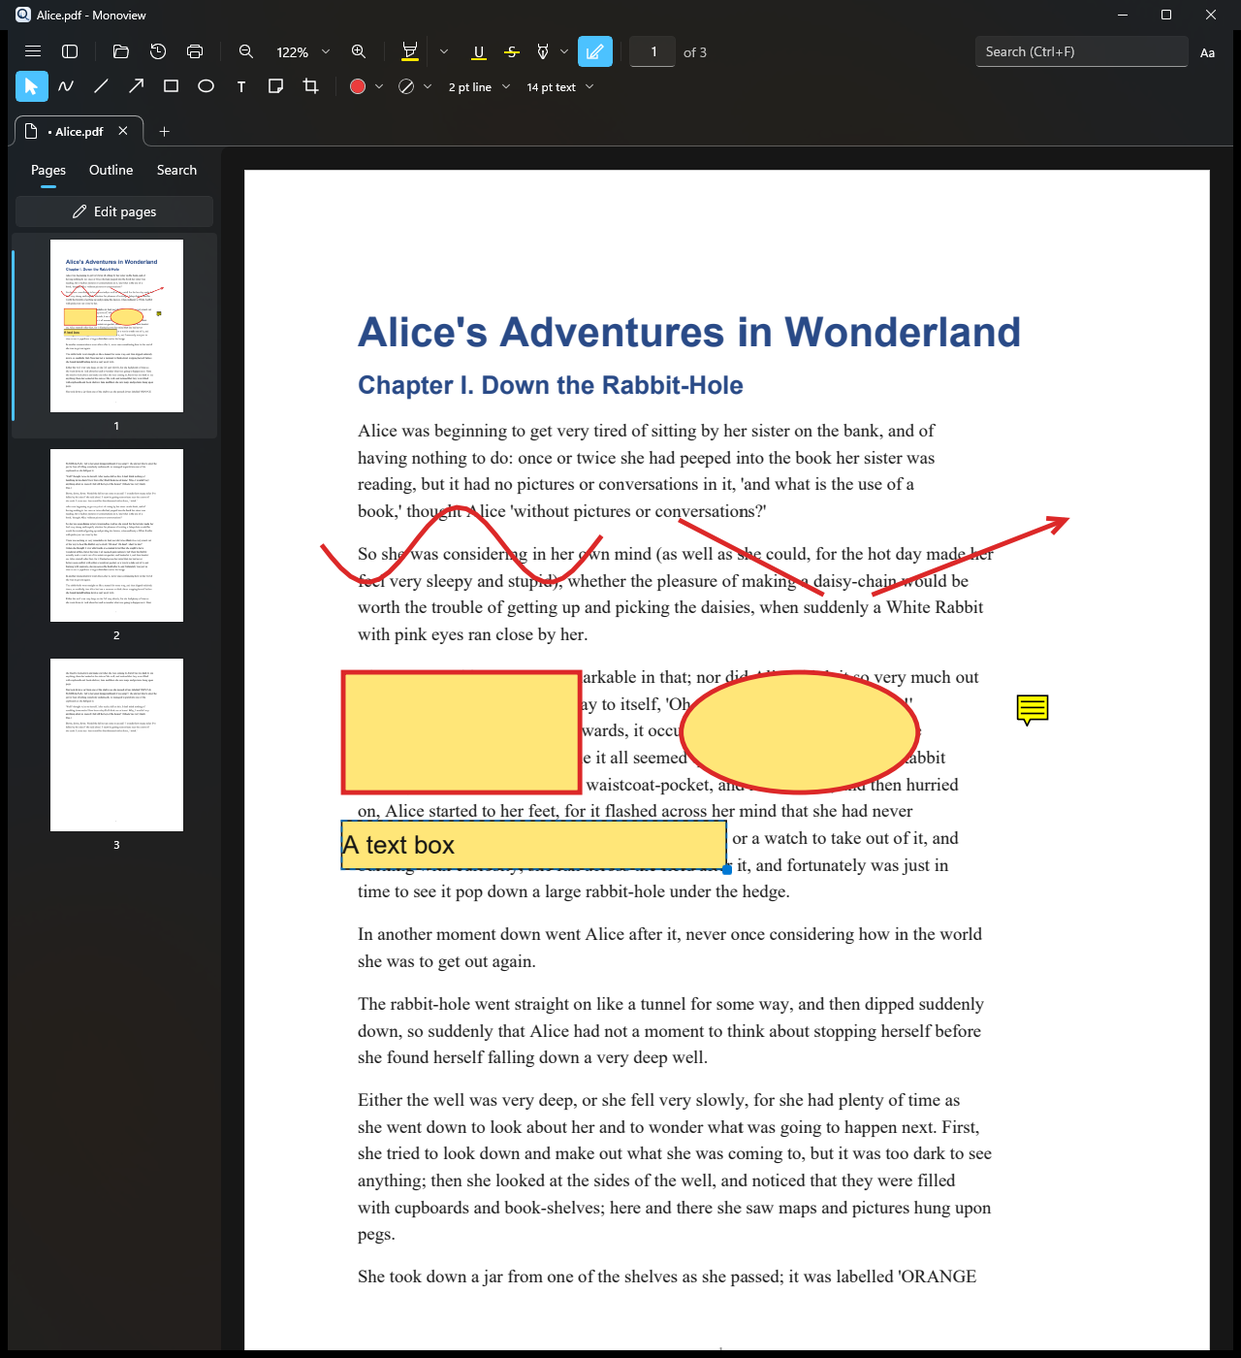
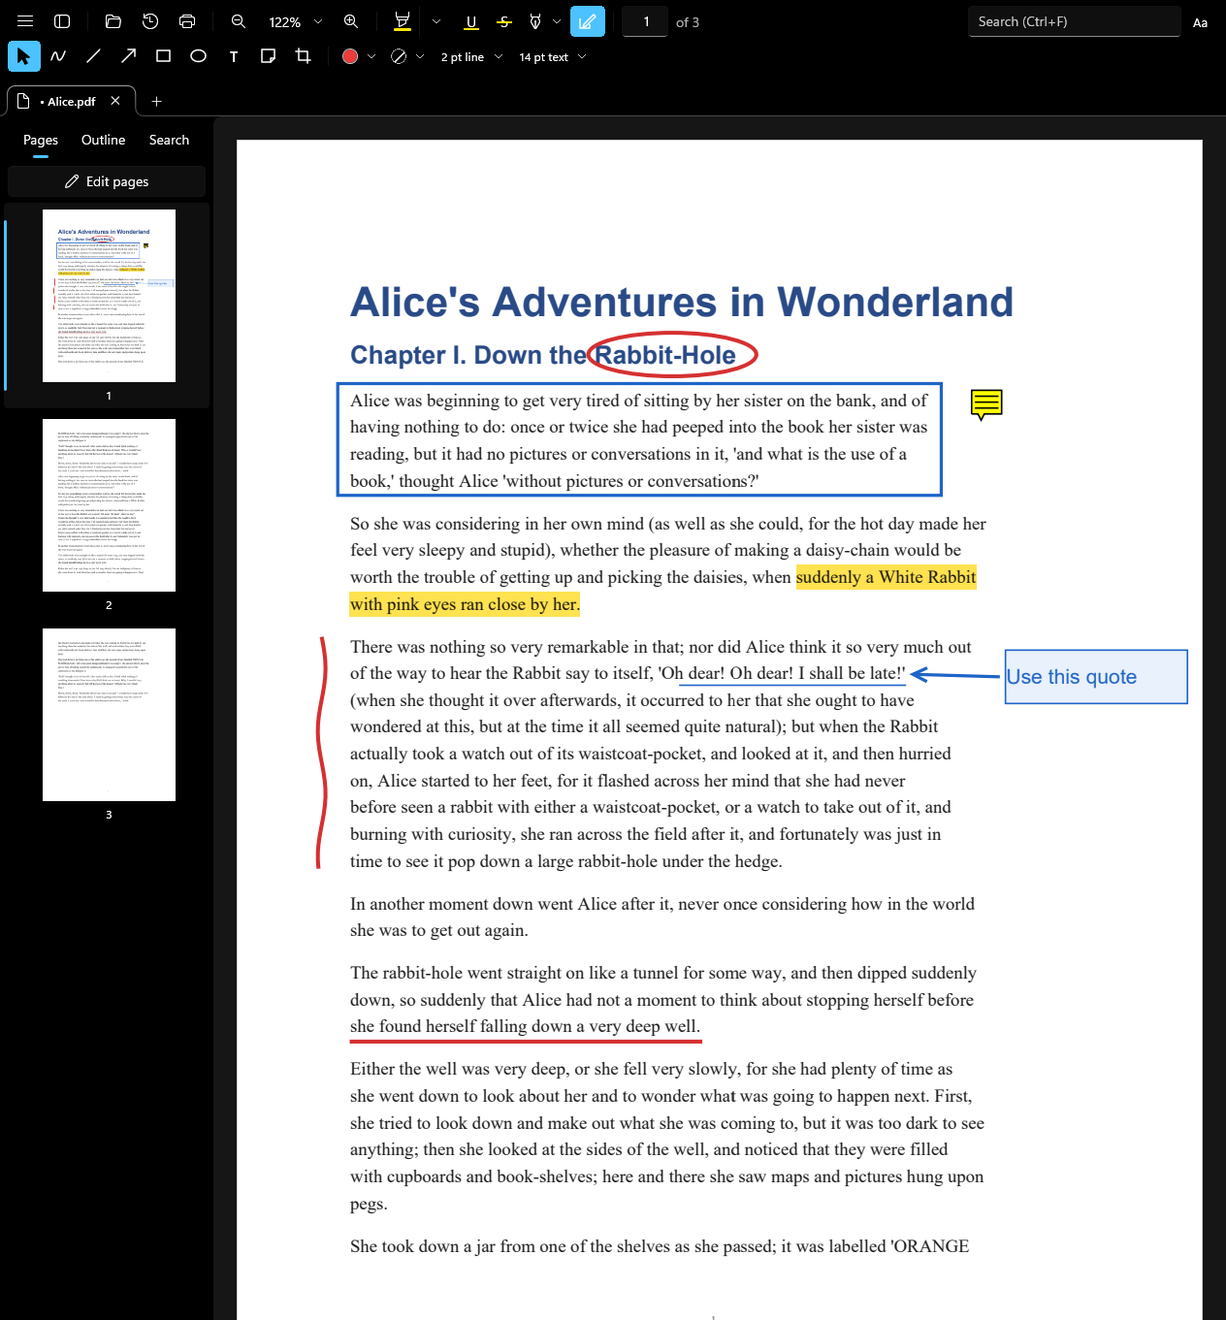
Add a GitHub Pages site in docs for monoview.app, positioned as Preview for Windows; Crop the black window edges from the screenshots; Lay out the shapes test demo as review notes and retake the markup screenshot.

diff --git a/docs/index.html b/docs/index.html
@@ -1,0 +1,228 @@
+<!doctype html>
+<html lang="en">
+<head>
+<meta charset="utf-8">
+<meta name="viewport" content="width=device-width, initial-scale=1">
+<title>Monoview: Preview for Windows</title>
+<meta name="description" content="Monoview is Preview for Windows: a fast, clean viewer for PDFs and pictures. Read, mark up, sign and fill in PDFs. Free and open source.">
+<link rel="canonical" href="./">
+<meta property="og:type" content="website">
+<meta property="og:title" content="Monoview: Preview for Windows">
+<meta property="og:description" content="A fast, clean viewer for PDFs and pictures, modeled on macOS Preview.">
+<meta property="og:image" content="https://monoview.app/images/reading-light.png">
+<meta property="og:url" content="https://monoview.app/">
+<link rel="icon" href="images/logo.svg" type="image/svg+xml">
+<link rel="preconnect" href="https://fonts.googleapis.com">
+<link rel="preconnect" href="https://fonts.gstatic.com" crossorigin>
+<link rel="stylesheet" href="https://fonts.googleapis.com/css2?family=Bricolage+Grotesque:opsz,wght@12..96,600;12..96,700;12..96,800&amp;family=Figtree:wght@400;500;600&amp;display=swap">
+<style>
+body{margin:0}
+a{color:#1B4478}a:hover{color:#0B2545}
+.btn-primary:hover{filter:brightness(1.12)}
+.btn-ghost:hover{border-color:#0B2545 !important}
+.btn-light:hover{background:#ffffff !important}
+.nav-link{color:#334155;text-decoration:none}
+.nav-link:hover{color:#0B2545;text-decoration:underline}
+.foot-link{color:#B8C7DC}
+.foot-link:hover{color:#ffffff}
+html{scroll-behavior:smooth}
+</style>
+</head>
+<body>
+<div style="font-family: 'Figtree', 'Segoe UI', sans-serif; color: #0B2545; background: #F4F7FB; min-height: 100vh; font-size: 17px; line-height: 1.6">
+
+  <!-- Nav -->
+  <div style="max-width: 1160px; margin: 0 auto; padding: 20px 24px; display: flex; align-items: center; justify-content: space-between; gap: 16px; flex-wrap: wrap">
+    <a href="./" style="display: flex; align-items: center; gap: 10px; text-decoration: none; color: #0B2545">
+      <img src="images/logo.svg" alt="" style="width: 36px; height: 36px">
+      <span style="font-family: 'Bricolage Grotesque', sans-serif; font-weight: 700; font-size: 21px; letter-spacing: -0.01em">Monoview</span>
+    </a>
+    <div style="display: flex; align-items: center; gap: 24px; flex-wrap: wrap">
+      <a class="nav-link" href="#features" style="font-weight: 500">Features</a>
+      <a class="nav-link" href="#screenshots" style="font-weight: 500">Screenshots</a>
+      <a class="nav-link" href="https://github.com/mfmyip/Monoview" style="font-weight: 500">GitHub</a>
+      <a class="btn-primary" href="https://github.com/mfmyip/Monoview/releases/latest" style="background: #1B4478; color: #ffffff; text-decoration: none; font-weight: 600; font-size: 15px; padding: 10px 18px; border-radius: 10px; min-height: 44px; box-sizing: border-box; display: inline-flex; align-items: center">Download</a>
+    </div>
+  </div>
+
+  <!-- Hero -->
+  <div style="max-width: 1160px; margin: 0 auto; padding: 72px 24px 48px; text-align: center; display: flex; flex-direction: column; align-items: center; gap: 22px">
+    <div style="display: inline-flex; align-items: center; gap: 8px; background: #ffffff; border: 1px solid #D5DEEA; border-radius: 999px; padding: 6px 14px; font-size: 14px; font-weight: 500; color: #334155">
+      <span style="width: 8px; height: 8px; border-radius: 50%; background: #2E8B57"></span>
+      Version 0.1.1 for Windows 10 and 11
+    </div>
+    <h1 style="margin: 0; font-family: 'Bricolage Grotesque', sans-serif; font-weight: 800; font-size: clamp(2.6rem, 6vw, 4.6rem); line-height: 1.02; letter-spacing: -0.035em; max-width: 880px">Preview for Windows.</h1>
+    <p style="margin: 0; font-size: clamp(1.05rem, 2vw, 1.3rem); color: #3D4B66; max-width: 660px">Monoview is a fast, clean viewer for PDFs and pictures, modeled on macOS Preview. Open a file, read it, mark it up, sign it or fill it in, and get on with your day.</p>
+    <div style="display: flex; gap: 12px; flex-wrap: wrap; justify-content: center; margin-top: 6px">
+      <a class="btn-primary" href="https://github.com/mfmyip/Monoview/releases/latest" style="background: #1B4478; color: #ffffff; text-decoration: none; font-weight: 600; font-size: 17px; padding: 14px 26px; border-radius: 12px; min-height: 52px; box-sizing: border-box; display: inline-flex; align-items: center; gap: 10px">
+        <svg aria-hidden="true" width="18" height="18" viewBox="0 0 24 24" fill="none" stroke="currentColor" stroke-width="2" stroke-linecap="round" stroke-linejoin="round"><path d="M12 3v12"></path><path d="M7 10l5 5 5-5"></path><path d="M5 21h14"></path></svg>
+        Download for Windows
+      </a>
+      <a class="btn-ghost" href="https://github.com/mfmyip/Monoview" style="background: #ffffff; color: #0B2545; text-decoration: none; font-weight: 600; font-size: 17px; padding: 14px 26px; border-radius: 12px; border: 1px solid #C9D4E3; min-height: 52px; box-sizing: border-box; display: inline-flex; align-items: center">View source</a>
+    </div>
+    <p style="margin: 0; font-size: 14px; color: #4A5873">Free and open source under the MIT License. No account, no ads, no telemetry.</p>
+  </div>
+
+  <!-- Hero shot -->
+  <div style="max-width: 1160px; margin: 0 auto; padding: 0 24px 96px">
+    <img src="images/reading-light.png" alt="Monoview showing a book chapter with the page sidebar open" style="display: block; width: 100%; max-width: 980px; height: auto; margin: 0 auto; border-radius: 12px; border: 1px solid #D5DEEA; box-shadow: 0 30px 80px rgba(11, 37, 69, 0.16)">
+  </div>
+
+  <!-- Features -->
+  <div id="features" style="background: #ffffff; border-top: 1px solid #E2E8F1; border-bottom: 1px solid #E2E8F1">
+    <div style="max-width: 1160px; margin: 0 auto; padding: 96px 24px; display: flex; flex-direction: column; gap: 48px">
+      <div style="display: flex; flex-direction: column; gap: 12px; max-width: 640px">
+        <div style="font-size: 14px; font-weight: 600; letter-spacing: 0.08em; text-transform: uppercase; color: #1B4478">Features</div>
+        <h2 style="margin: 0; font-family: 'Bricolage Grotesque', sans-serif; font-weight: 700; font-size: clamp(2rem, 4vw, 2.8rem); line-height: 1.1; letter-spacing: -0.025em">Everything you open a file to do.</h2>
+        <p style="margin: 0; color: #3D4B66">PDFs, PNGs and JPGs open in the same window. Built on PDFium, the engine inside Chrome. Your edits save as standard PDF annotations, so Acrobat, Edge and Preview show them too.</p>
+      </div>
+      <div style="display: grid; grid-template-columns: repeat(auto-fit, minmax(300px, 1fr)); gap: 20px">
+
+        <div style="background: #F4F7FB; border-radius: 16px; padding: 28px; display: flex; flex-direction: column; gap: 10px">
+          <div style="width: 44px; height: 44px; border-radius: 12px; background: #DCE7F5; color: #1B4478; display: flex; align-items: center; justify-content: center">
+            <svg aria-hidden="true" width="22" height="22" viewBox="0 0 24 24" fill="none" stroke="currentColor" stroke-width="2" stroke-linecap="round" stroke-linejoin="round"><path d="M2 4h7a3 3 0 0 1 3 3v13a2 2 0 0 0-2-2H2z"></path><path d="M22 4h-7a3 3 0 0 0-3 3v13a2 2 0 0 1 2-2h8z"></path></svg>
+          </div>
+          <h3 style="margin: 0; font-size: 19px; font-weight: 600">Fast reading</h3>
+          <p style="margin: 0; color: #3D4B66">Only the pages you see are drawn, so big files stay smooth. Zoom around the pointer, two-page view, outline, thumbnails and search.</p>
+        </div>
+
+        <div style="background: #F4F7FB; border-radius: 16px; padding: 28px; display: flex; flex-direction: column; gap: 10px">
+          <div style="width: 44px; height: 44px; border-radius: 12px; background: #DCE7F5; color: #1B4478; display: flex; align-items: center; justify-content: center">
+            <svg aria-hidden="true" width="22" height="22" viewBox="0 0 24 24" fill="none" stroke="currentColor" stroke-width="2" stroke-linecap="round" stroke-linejoin="round"><path d="M12 20h9"></path><path d="M16.5 3.5a2.1 2.1 0 0 1 3 3L7 19l-4 1 1-4z"></path></svg>
+          </div>
+          <h3 style="margin: 0; font-size: 19px; font-weight: 600">Markup and signatures</h3>
+          <p style="margin: 0; color: #3D4B66">Highlight, draw, add shapes, text boxes and sticky notes. Draw, type or photograph your signature and place it in one click.</p>
+        </div>
+
+        <div style="background: #F4F7FB; border-radius: 16px; padding: 28px; display: flex; flex-direction: column; gap: 10px">
+          <div style="width: 44px; height: 44px; border-radius: 12px; background: #DCE7F5; color: #1B4478; display: flex; align-items: center; justify-content: center">
+            <svg aria-hidden="true" width="22" height="22" viewBox="0 0 24 24" fill="none" stroke="currentColor" stroke-width="2" stroke-linecap="round" stroke-linejoin="round"><rect x="3" y="3" width="18" height="18" rx="2"></rect><circle cx="8.5" cy="8.5" r="1.5"></circle><path d="M21 15l-5-5L5 21"></path></svg>
+          </div>
+          <h3 style="margin: 0; font-size: 19px; font-weight: 600">Pictures and live text</h3>
+          <p style="margin: 0; color: #3D4B66">Open PNG and JPG files like PDFs and save them as PDF. Text in scans and pictures is read with Windows OCR, so you can select, copy and search it.</p>
+        </div>
+
+        <div style="background: #F4F7FB; border-radius: 16px; padding: 28px; display: flex; flex-direction: column; gap: 10px">
+          <div style="width: 44px; height: 44px; border-radius: 12px; background: #DCE7F5; color: #1B4478; display: flex; align-items: center; justify-content: center">
+            <svg aria-hidden="true" width="22" height="22" viewBox="0 0 24 24" fill="none" stroke="currentColor" stroke-width="2" stroke-linecap="round" stroke-linejoin="round"><rect x="3" y="4" width="18" height="16" rx="2"></rect><path d="M7 9h10"></path><path d="M7 13h6"></path><path d="M15 16l1.5 1.5L19 15"></path></svg>
+          </div>
+          <h3 style="margin: 0; font-size: 19px; font-weight: 600">Forms</h3>
+          <p style="margin: 0; color: #3D4B66">Fill text fields, check boxes, radio buttons and drop-downs. Tab between fields. Form scripts never run.</p>
+        </div>
+
+        <div style="background: #F4F7FB; border-radius: 16px; padding: 28px; display: flex; flex-direction: column; gap: 10px">
+          <div style="width: 44px; height: 44px; border-radius: 12px; background: #DCE7F5; color: #1B4478; display: flex; align-items: center; justify-content: center">
+            <svg aria-hidden="true" width="22" height="22" viewBox="0 0 24 24" fill="none" stroke="currentColor" stroke-width="2" stroke-linecap="round" stroke-linejoin="round"><rect x="3" y="3" width="8" height="10" rx="1.5"></rect><rect x="13" y="11" width="8" height="10" rx="1.5"></rect><path d="M15 3h4a2 2 0 0 1 2 2v3"></path><path d="M9 21H5a2 2 0 0 1-2-2v-3"></path></svg>
+          </div>
+          <h3 style="margin: 0; font-size: 19px; font-weight: 600">Pages</h3>
+          <p style="margin: 0; color: #3D4B66">Reorder, rotate, crop, delete and insert pages. Drag pages from one document into another, even across windows.</p>
+        </div>
+
+        <div style="background: #F4F7FB; border-radius: 16px; padding: 28px; display: flex; flex-direction: column; gap: 10px">
+          <div style="width: 44px; height: 44px; border-radius: 12px; background: #DCE7F5; color: #1B4478; display: flex; align-items: center; justify-content: center">
+            <svg aria-hidden="true" width="22" height="22" viewBox="0 0 24 24" fill="none" stroke="currentColor" stroke-width="2" stroke-linecap="round" stroke-linejoin="round"><path d="M12 3l8 3v6c0 4.5-3.4 8.2-8 9-4.6-.8-8-4.5-8-9V6z"></path><path d="M9 12l2 2 4-4"></path></svg>
+          </div>
+          <h3 style="margin: 0; font-size: 19px; font-weight: 600">Safe by default</h3>
+          <p style="margin: 0; color: #3D4B66">Undo for every edit. Saves write a temporary file first, so a failed save never damages the original.</p>
+        </div>
+
+      </div>
+    </div>
+  </div>
+
+  <!-- Screenshots -->
+  <div id="screenshots" style="background: #0B2545; color: #ffffff">
+    <div style="max-width: 1160px; margin: 0 auto; padding: 96px 24px; display: flex; flex-direction: column; gap: 40px">
+      <div style="display: flex; flex-direction: column; gap: 12px; max-width: 640px">
+        <div style="font-size: 14px; font-weight: 600; letter-spacing: 0.08em; text-transform: uppercase; color: #9DBDE6">Screenshots</div>
+        <h2 style="margin: 0; font-family: 'Bricolage Grotesque', sans-serif; font-weight: 700; font-size: clamp(2rem, 4vw, 2.8rem); line-height: 1.1; letter-spacing: -0.025em">Light or dark, it feels at home on Windows.</h2>
+      </div>
+      <div style="display: grid; grid-template-columns: repeat(auto-fit, minmax(320px, 1fr)); gap: 24px">
+        <div style="display: flex; flex-direction: column; gap: 12px">
+          <img loading="lazy" src="images/markup-dark.png" alt="The markup bar with shapes, ink, a note and a text box" style="display: block; width: 100%; height: auto; border-radius: 12px; border: 1px solid #23406A">
+          <div style="font-size: 15px; color: #C3D3EA"><strong style="color: #ffffff">Markup bar.</strong> Draw, add shapes, text boxes and notes.</div>
+        </div>
+        <div style="display: flex; flex-direction: column; gap: 12px">
+          <img loading="lazy" src="images/two-page-dark.png" alt="Two-page view in the dark theme" style="display: block; width: 100%; height: auto; border-radius: 12px; border: 1px solid #23406A">
+          <div style="font-size: 15px; color: #C3D3EA"><strong style="color: #ffffff">Two-page view.</strong> Read spreads side by side.</div>
+        </div>
+        <div style="display: flex; flex-direction: column; gap: 12px">
+          <img loading="lazy" src="images/forms-light.png" alt="A form with a filled text field, a ticked check box and a drop-down" style="display: block; width: 100%; height: auto; border-radius: 12px; border: 1px solid #23406A">
+          <div style="font-size: 15px; color: #C3D3EA"><strong style="color: #ffffff">Forms.</strong> Type into fields, tick boxes and pick from lists.</div>
+        </div>
+      </div>
+    </div>
+  </div>
+
+  <!-- Coming next -->
+  <div style="max-width: 1160px; margin: 0 auto; padding: 96px 24px 0; display: flex; flex-direction: column; gap: 32px">
+    <div style="display: flex; flex-direction: column; gap: 12px; max-width: 640px">
+      <div style="font-size: 14px; font-weight: 600; letter-spacing: 0.08em; text-transform: uppercase; color: #1B4478">Coming next</div>
+      <h2 style="margin: 0; font-family: 'Bricolage Grotesque', sans-serif; font-weight: 700; font-size: clamp(2rem, 4vw, 2.8rem); line-height: 1.1; letter-spacing: -0.025em">More in the works.</h2>
+      <p style="margin: 0; color: #3D4B66">Monoview is young and growing. These are next on the list.</p>
+    </div>
+    <div style="display: grid; grid-template-columns: repeat(auto-fit, minmax(240px, 1fr)); gap: 16px">
+      <div style="border: 1px dashed #B7C5D9; border-radius: 14px; padding: 22px; display: flex; flex-direction: column; gap: 6px">
+        <div style="font-weight: 600">True redaction</div>
+        <div style="color: #3D4B66; font-size: 15px">Remove content for real, not just cover it.</div>
+      </div>
+      <div style="border: 1px dashed #B7C5D9; border-radius: 14px; padding: 22px; display: flex; flex-direction: column; gap: 6px">
+        <div style="font-weight: 600">More shapes</div>
+        <div style="color: #3D4B66; font-size: 15px">Rounded rectangles, speech bubbles, stars and polygons.</div>
+      </div>
+      <div style="border: 1px dashed #B7C5D9; border-radius: 14px; padding: 22px; display: flex; flex-direction: column; gap: 6px">
+        <div style="font-weight: 600">Richer text boxes</div>
+        <div style="color: #3D4B66; font-size: 15px">Fonts, bold and italic, dashed lines and arrow ends.</div>
+      </div>
+      <div style="border: 1px dashed #B7C5D9; border-radius: 14px; padding: 22px; display: flex; flex-direction: column; gap: 6px">
+        <div style="font-weight: 600">winget and a signed build</div>
+        <div style="color: #3D4B66; font-size: 15px">Install from the command line, with no SmartScreen prompt.</div>
+      </div>
+    </div>
+  </div>
+
+  <!-- Install -->
+  <div style="max-width: 1160px; margin: 0 auto; padding: 96px 24px; display: flex; flex-direction: column; gap: 40px">
+    <div style="display: flex; flex-direction: column; gap: 12px; max-width: 640px">
+      <div style="font-size: 14px; font-weight: 600; letter-spacing: 0.08em; text-transform: uppercase; color: #1B4478">Get it</div>
+      <h2 style="margin: 0; font-family: 'Bricolage Grotesque', sans-serif; font-weight: 700; font-size: clamp(2rem, 4vw, 2.8rem); line-height: 1.1; letter-spacing: -0.025em">Two ways to install.</h2>
+    </div>
+    <div style="display: grid; grid-template-columns: repeat(auto-fit, minmax(300px, 1fr)); gap: 20px">
+      <div style="background: #ffffff; border: 1px solid #D5DEEA; border-radius: 16px; padding: 28px; display: flex; flex-direction: column; gap: 10px">
+        <div style="font-family: 'Bricolage Grotesque', sans-serif; font-weight: 700; font-size: 22px">Installer</div>
+        <code style="font-family: Consolas, 'Cascadia Mono', monospace; font-size: 14px; color: #3D4B66">Monoview-0.1.1-win-x64.msi</code>
+        <p style="margin: 0; color: #3D4B66">Installs for you only, with no admin prompt. Adds Monoview to the Start menu and to Open with for PDF, PNG and JPG.</p>
+      </div>
+      <div style="background: #ffffff; border: 1px solid #D5DEEA; border-radius: 16px; padding: 28px; display: flex; flex-direction: column; gap: 10px">
+        <div style="font-family: 'Bricolage Grotesque', sans-serif; font-weight: 700; font-size: 22px">Portable</div>
+        <code style="font-family: Consolas, 'Cascadia Mono', monospace; font-size: 14px; color: #3D4B66">Monoview-0.1.1-win-x64.zip</code>
+        <p style="margin: 0; color: #3D4B66">Unzip it anywhere and run Monoview.exe. Nothing is installed, and .NET is included.</p>
+      </div>
+    </div>
+    <p style="margin: 0; font-size: 15px; color: #4A5873; max-width: 760px">The builds are not code-signed yet, so Windows SmartScreen may show "Windows protected your PC" the first time. Click More info, then Run anyway. Needs Windows 10 version 1809 or later, or Windows 11, on x64.</p>
+  </div>
+
+  <!-- CTA + footer -->
+  <div style="background: #1B4478; color: #ffffff">
+    <div style="max-width: 1160px; margin: 0 auto; padding: 72px 24px; display: flex; align-items: center; justify-content: space-between; gap: 24px; flex-wrap: wrap">
+      <div style="display: flex; align-items: center; gap: 18px">
+        <img src="images/logo.svg" alt="" style="width: 64px; height: 64px">
+        <div style="font-family: 'Bricolage Grotesque', sans-serif; font-weight: 700; font-size: clamp(1.6rem, 3vw, 2.2rem); line-height: 1.15; letter-spacing: -0.02em">Open a file and get on with your day.</div>
+      </div>
+      <a class="btn-light" href="https://github.com/mfmyip/Monoview/releases/latest" style="background: #F4F7FB; color: #0B2545; text-decoration: none; font-weight: 600; font-size: 17px; padding: 14px 26px; border-radius: 12px; min-height: 52px; box-sizing: border-box; display: inline-flex; align-items: center">Download for Windows</a>
+    </div>
+    <div style="border-top: 1px solid rgba(255, 255, 255, 0.18)">
+      <div style="max-width: 1160px; margin: 0 auto; padding: 24px; display: flex; justify-content: space-between; gap: 16px; flex-wrap: wrap; font-size: 14px; color: #D6E2F2">
+        <div>Monoview is released under the MIT License.</div>
+        <div style="display: flex; gap: 20px; flex-wrap: wrap">
+          <a class="foot-link" href="https://github.com/mfmyip/Monoview">GitHub</a>
+          <a class="foot-link" href="https://github.com/mfmyip/Monoview/releases">Releases</a>
+          <a class="foot-link" href="https://github.com/mfmyip/Monoview/issues">Report a bug</a>
+        </div>
+      </div>
+    </div>
+  </div>
+
+</div>
+</body>
+</html>

diff --git a/src/Monoview.App/MainWindow.xaml.cs b/src/Monoview.App/MainWindow.xaml.cs
@@ -1694,18 +1694,25 @@ public sealed partial class MainWindow : Window
                 if (args.Contains("--shapes-test"))
                 {
                     // One of each drawing tool on page 1, in the page as shown, then the markup bar for the screenshot.
+                    // Laid out on the first page of the Alice sample so it reads like review notes.
                     SetMarkupBarVisible(true);
                     var viewer = CurrentView!.Viewer;
-                    viewer.ToolStyle = new ShapeStyle(new MarkupColor(220, 40, 40), new MarkupColor(255, 230, 120), 3);
-                    var ink = Enumerable.Range(0, 30).Select(i => (0.08 + i * 0.01, 0.3 + 0.03 * Math.Sin(i / 3.0))).ToList();
-                    await viewer.DrawAsync(MarkupTool.Ink, 0, ink);
-                    await viewer.DrawAsync(MarkupTool.Line, 0, [(0.45, 0.28), (0.6, 0.34)]);
-                    await viewer.DrawAsync(MarkupTool.Arrow, 0, [(0.65, 0.34), (0.85, 0.28)]);
-                    await viewer.DrawAsync(MarkupTool.Rectangle, 0, [(0.1, 0.4), (0.35, 0.5)]);
-                    await viewer.DrawAsync(MarkupTool.Ellipse, 0, [(0.45, 0.4), (0.7, 0.5)]);
-                    await CurrentView.Document.AddNoteAsync(0, 0.8, 0.42, "A note", new MarkupColor(255, 210, 0));
-                    await CurrentView.Document.AddTextBoxAsync(0, new NormRect(0.1f, 0.52f, 0.5f, 0.56f), "A text box", viewer.ToolStyle with { Stroke = new MarkupColor(20, 20, 20), FontSize = 16 });
-                    viewer.ReplaceDocument(CurrentView.Document); // redraw after the two direct engine calls
+                    var red = new MarkupColor(214, 48, 49);
+                    var blue = new MarkupColor(30, 100, 200);
+                    await CurrentView.Document.AddMarkupAsync(0, MarkupKind.Highlight, new MarkupColor(255, 226, 80),
+                        [new NormRect(0.580f, 0.340f, 0.766f, 0.360f), new NormRect(0.117f, 0.362f, 0.355f, 0.382f)]);
+                    await CurrentView.Document.AddMarkupAsync(0, MarkupKind.Underline, blue, [new NormRect(0.458f, 0.418f, 0.693f, 0.438f)]);
+                    viewer.ToolStyle = new ShapeStyle(red, null, 2.5f);
+                    await viewer.DrawAsync(MarkupTool.Ellipse, 0, [(0.362, 0.153), (0.540, 0.191)]);
+                    var bracket = Enumerable.Range(0, 30).Select(i => (0.088 + 0.004 * Math.Sin(i / 2.5), 0.398 + i * 0.0064)).ToList();
+                    await viewer.DrawAsync(MarkupTool.Ink, 0, bracket);
+                    await viewer.DrawAsync(MarkupTool.Line, 0, [(0.117, 0.722), (0.482, 0.722)]);
+                    viewer.ToolStyle = new ShapeStyle(blue, null, 2);
+                    await viewer.DrawAsync(MarkupTool.Rectangle, 0, [(0.103, 0.194), (0.731, 0.286)]);
+                    await viewer.DrawAsync(MarkupTool.Arrow, 0, [(0.79, 0.43), (0.70, 0.428)]);
+                    await CurrentView.Document.AddNoteAsync(0, 0.76, 0.20, "Great opening line.", new MarkupColor(255, 210, 0));
+                    await CurrentView.Document.AddTextBoxAsync(0, new NormRect(0.795f, 0.408f, 0.985f, 0.452f), "Use this quote", new ShapeStyle(blue, new MarkupColor(232, 241, 252), 1, 13));
+                    viewer.ReplaceDocument(CurrentView.Document); // redraw after the direct engine calls
                     await Task.Delay(1500);
                     var kinds = (await CurrentView.Document.GetShapesAsync(0)).Select(s => s.Kind);
                     Console.Out.WriteLine($"SHAPES {string.Join(",", kinds)} undo={HistoryFor((TabViewItem)Tabs.SelectedItem).CanUndo} tool={viewer.Tool}");
